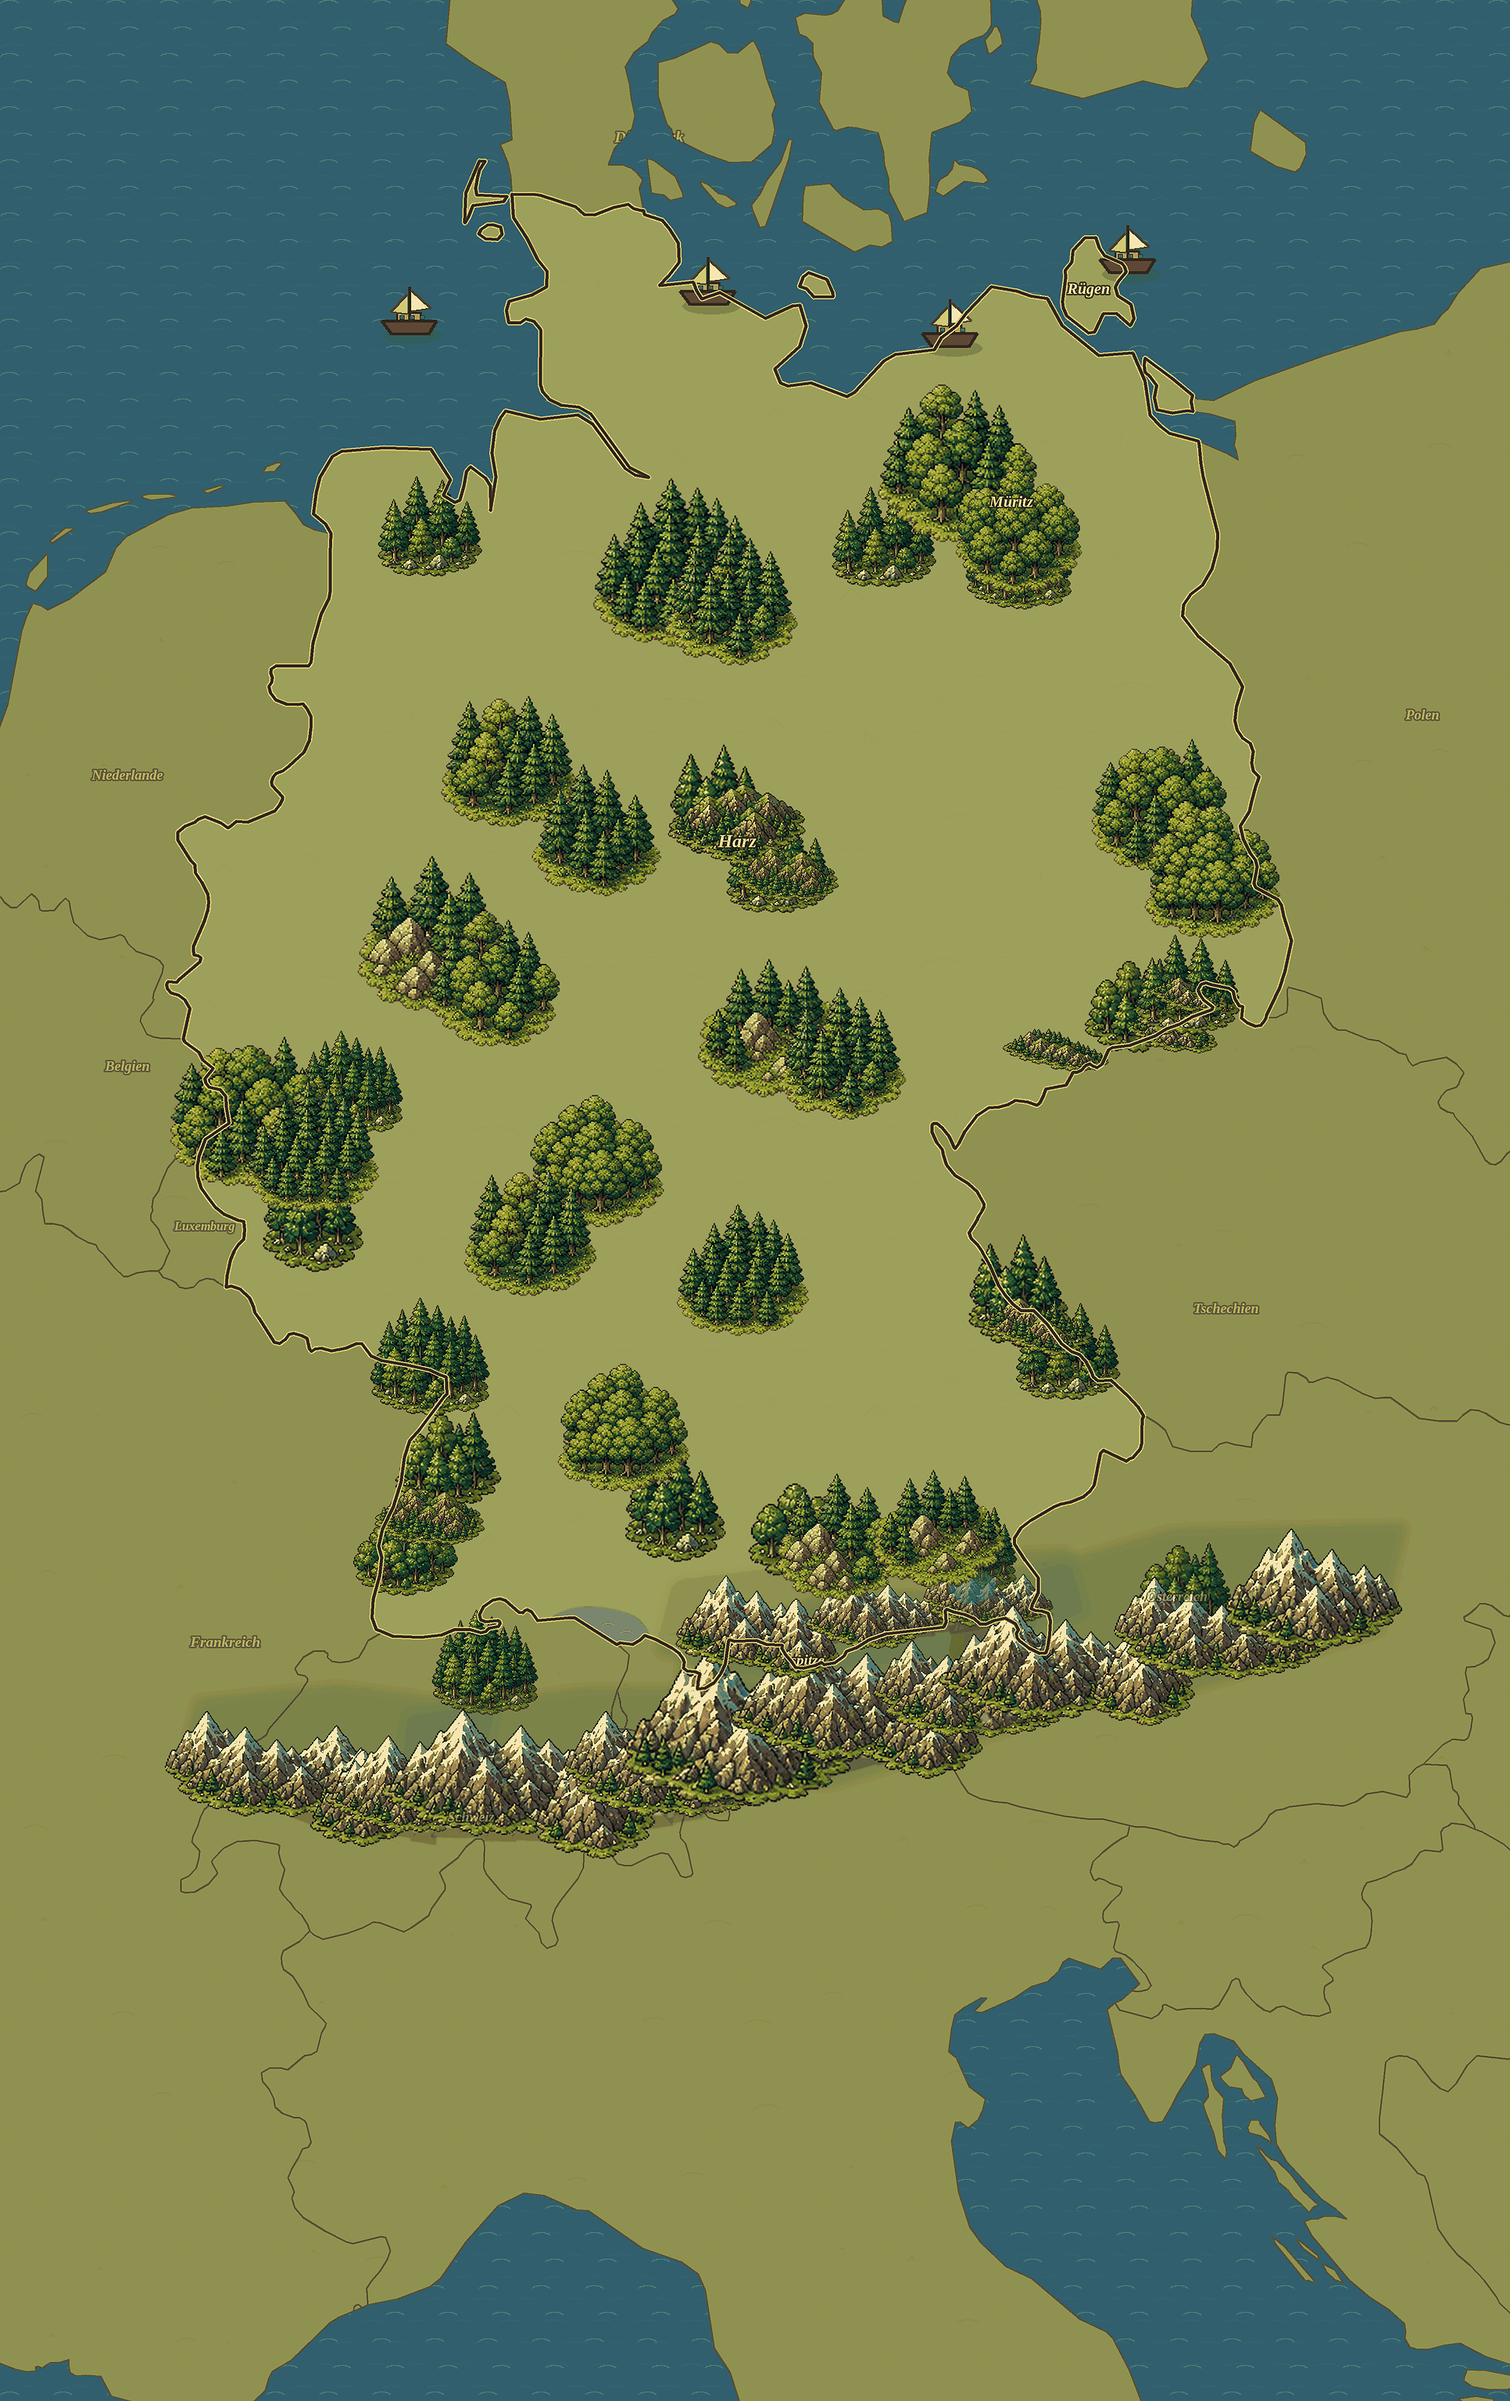
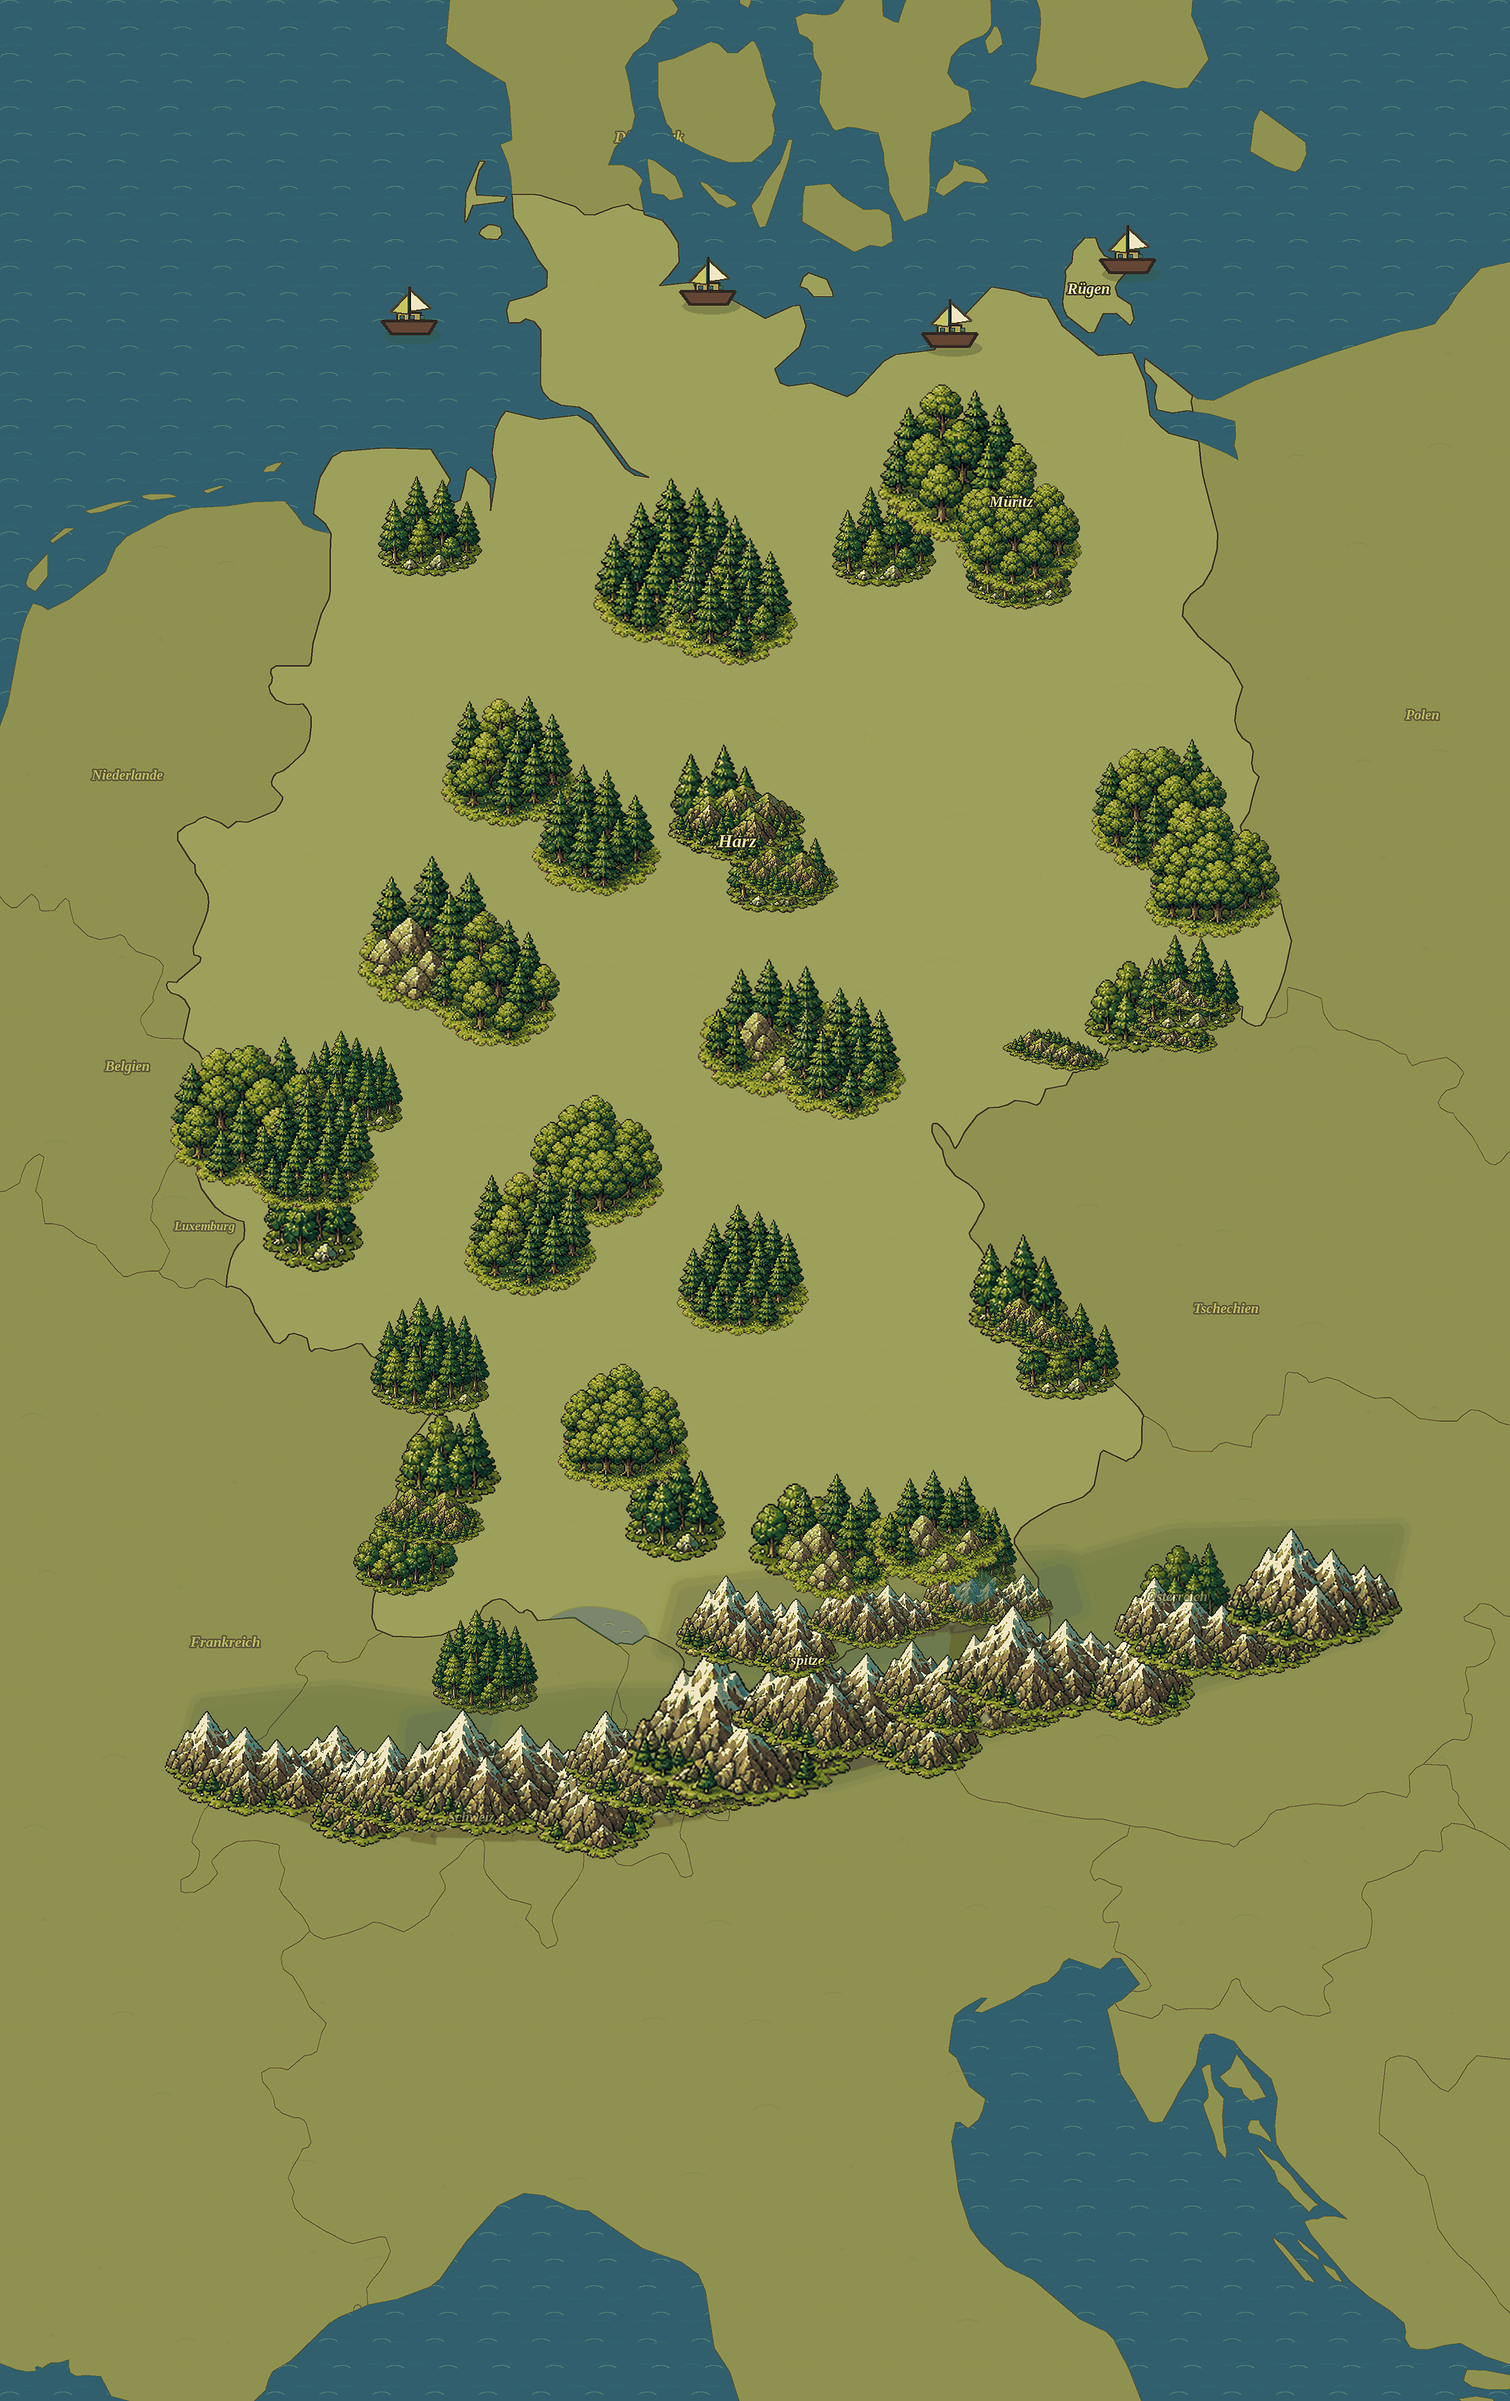
Soften Dresden border artifacts

diff --git a/map_pipeline/compose_map.py b/map_pipeline/compose_map.py
@@ -31,6 +31,8 @@ NEIGHBOR_LAND = "#8f9150"
 GERMANY_LAND = "#9da05a"
 GERMANY_EDGE = "#463c28"
 BORDER = "#5a5037"
+COUNTRY_NEIGHBOR_BORDER_WIDTH = 1
+COUNTRY_GERMANY_EDGE_WIDTH = 2
 LAKE = "#2d7285"
 RIVER = "#3b8fa3"
 ROUTE = "#d8c17a"
@@ -1315,10 +1317,10 @@ def _draw_country_layer(canvas, proj):
 
     for _, row in countries.iterrows():
         if row["ADMIN"] != "Germany":
-            _draw_geometry(draw, row.geometry, proj, NEIGHBOR_LAND, BORDER, 2 * RENDER_SCALE)
+            _draw_geometry(draw, row.geometry, proj, NEIGHBOR_LAND, BORDER, COUNTRY_NEIGHBOR_BORDER_WIDTH * RENDER_SCALE)
 
     germany = countries[countries["ADMIN"] == "Germany"].iloc[0].geometry
-    _draw_geometry(draw, germany, proj, GERMANY_LAND, GERMANY_EDGE, 5 * RENDER_SCALE)
+    _draw_geometry(draw, germany, proj, GERMANY_LAND, GERMANY_EDGE, COUNTRY_GERMANY_EDGE_WIDTH * RENDER_SCALE)
 
     mask = Image.new("L", canvas.size, 0)
     mask_draw = ImageDraw.Draw(mask)
@@ -1446,10 +1448,9 @@ def _draw_base_water_texture(canvas, water_mask):
 
 
 def _draw_country_border_overlay(canvas, proj, germany_geom):
-    draw = ImageDraw.Draw(canvas)
-    _draw_geometry(draw, germany_geom, proj, None, (230, 201, 119, 150), 7 * RENDER_SCALE)
-    _draw_geometry(draw, germany_geom, proj, None, GERMANY_EDGE, 4 * RENDER_SCALE)
-    _draw_geometry(draw, germany_geom, proj, None, (49, 39, 25, 230), 2 * RENDER_SCALE)
+    # The base country layer already outlines Germany. A second overlay reads as
+    # a technical route stroke near Dresden/Erzgebirge, so keep this pass inert.
+    return
 
 
 def _draw_ocean_texture(canvas):
@@ -2657,7 +2658,6 @@ def main():
     _draw_atlas_details(canvas, proj)
     _draw_neighbor_country_labels(canvas, proj, neighbor_mask)
     _draw_map_labels(canvas, proj, germany_mask)
-    _draw_country_border_overlay(canvas, proj, germany)
     _write_massif_source_manifest()
 
     print("Step 3: Finish clean interactive map underlay")

diff --git a/tests/test_map_panel_contract.py b/tests/test_map_panel_contract.py
@@ -216,7 +216,7 @@ class MapPanelContractTest(unittest.TestCase):
             "const DRAG_TAP_SUPPRESS_DISTANCE := 10.0",
             "const OBJECT_CLUSTER_ZOOM_THRESHOLD := 1.45",
             "const OBJECT_CLUSTER_SCREEN_DISTANCE := 118.0",
-            "const GERMANY_INITIAL_FOCUS_COORDINATES := Vector2(10.70, 52.00)",
+            "const GERMANY_INITIAL_FOCUS_COORDINATES := Vector2(11.10, 51.70)",
             "OfflineMapLayer._project_coordinates(GERMANY_INITIAL_FOCUS_COORDINATES",
             'button.text = title',
             '"+"',
@@ -692,6 +692,8 @@ class MapPanelContractTest(unittest.TestCase):
             "RIDGE_BAND_ALPHA_SCALE = 0.0",
             "ATLAS_ROUTE_DOT_SPACING_SCALE = 1.75",
             "ATLAS_ROUTE_DOT_MIN_RADIUS = 4",
+            "COUNTRY_GERMANY_EDGE_WIDTH = 2",
+            "COUNTRY_NEIGHBOR_BORDER_WIDTH = 1",
             "DEFAULT_BASE_LAND_PATCHES_ENABLED = False",
             "DEFAULT_INTEGRATED_LAND_PATTERN_ENABLED = False",
             "DEFAULT_LAND_DETAIL_PATCHES_ENABLED = False",
@@ -743,6 +745,8 @@ class MapPanelContractTest(unittest.TestCase):
             "def _draw_base_water_texture(canvas, water_mask):",
             "_draw_base_land_texture(canvas, land_mask, germany_mask)",
             "_draw_base_water_texture(canvas, water_mask)",
+            "def _draw_country_border_overlay(canvas, proj, germany_geom):",
+            "A second overlay reads as",
             "def _draw_named_water_bodies(canvas, proj, germany_mask):",
             "_draw_named_water_bodies(canvas, proj, germany_mask)",
             "_draw_atlas_details(canvas, proj)",
